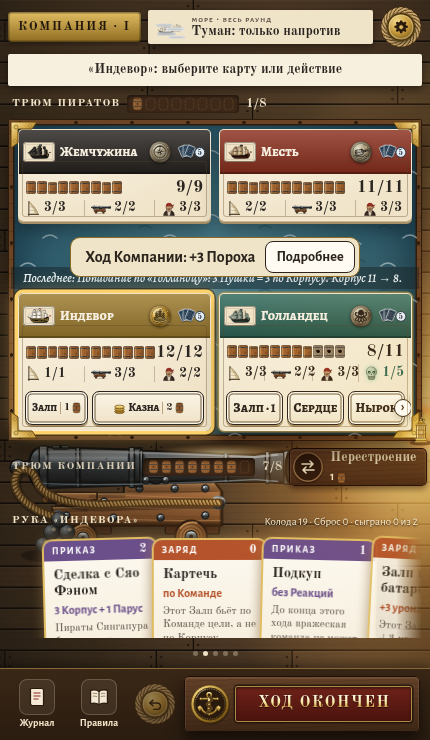
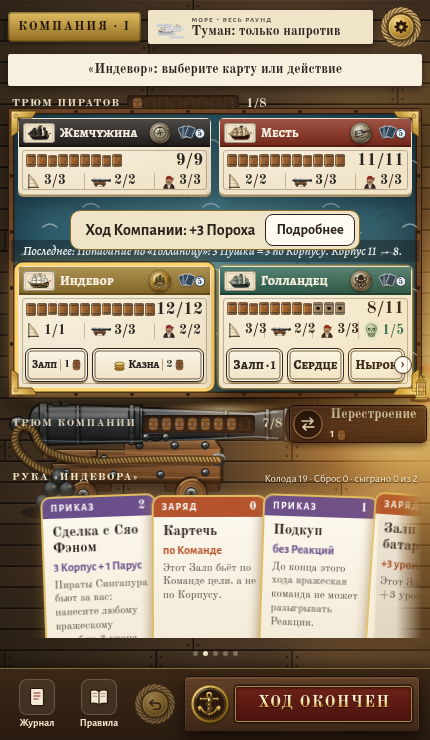
Restore compact phone planks and partition invisible touch targets

diff --git a/src/ui/game/phone.css b/src/ui/game/phone.css
@@ -9,7 +9,6 @@
   /* ——— the top row: the brass plate «ПИРАТЫ · II», the plaque of the sea with its picture, the gear; the paper line of
      the hint; the Hold of the top team over the sea ——— */
   .status {
-    flex-shrink: 0;
     grid-template-columns: auto minmax(0, 1fr);
     grid-template-areas:
       'turn tools'
@@ -188,10 +187,6 @@
     min-height: auto;
     grid-template-rows: auto minmax(64px, 1fr) auto;
   }
-  /* The whole enemy plank is a touch target, including a head without action buttons. */
-  .plank.aimable {
-    min-height: 80px;
-  }
   .board-bottom > .hand-row {
     flex: 0 1 auto;
     min-height: 96px;
@@ -219,15 +214,34 @@
     inset: 31px 3px 3px;
   }
   .plank-head {
-    /* A Legend owns a real 44 px target in the head, never the Hull below it. */
-    height: 44px;
-    min-height: 44px;
+    height: 28px;
+    min-height: 28px;
     padding: 0 4px;
     gap: 5px;
   }
+  /* Invisible extensions never reserve room. The Legend grows upwards, away from Hull. */
+  .plank { overflow: visible; }
   button.star::before {
-    top: calc(50% - 22px);
+    inset: auto -11px 0;
+    width: 44px;
     height: 44px;
+    transform: none;
+  }
+  /* Neighbouring rows split the available space; their hit areas cannot steal each other's taps. */
+  .track .info-hit::after {
+    inset: -2px;
+    width: auto;
+    height: auto;
+    transform: none;
+  }
+  .plank-statuses .info-hit::after {
+    inset: -2px -2px -21px;
+    width: auto;
+    height: auto;
+    transform: none;
+  }
+  .plank:has(.plank-buttons) .plank-statuses .info-hit::after {
+    bottom: -2px;
   }
   .plank-head .ship-art {
     flex: 0 0 32px;
@@ -558,11 +572,8 @@
   .plank-statuses {
     flex-wrap: nowrap;
     gap: 4px;
-    /* Keep the 44 px hit zone inside the row instead of clipping its top and bottom. */
-    min-height: 44px;
-    align-items: center;
-    padding: 0 7px;
-    overflow: hidden;
+    padding: 0 7px 5px;
+    overflow: visible;
   }
   .plank-statuses .status-chip {
     flex: none;

diff --git a/e2e/fx-sea.spec.ts b/e2e/fx-sea.spec.ts
@@ -291,13 +291,17 @@ test.describe('the badges explain themselves (phone 430×932)', () => {
     await expect(page.getByTestId('info-pop')).toHaveCount(0);
     expect(await showOn(page)).toBe(true);
     const fire = page.getByTestId('fire-И');
-    // the zone of the press is at least 44 × 44 px: the points 21 px around the middle of the badge give the badge
+    // The visible chip stays 21 px high. Its invisible extension grows into the free space below;
+    // the upper edge stops at the midpoint to the neighbouring track row.
     const zone = await fire.evaluate((el) => {
-      const r = el.getBoundingClientRect(), cx = r.left + r.width / 2, cy = r.top + r.height / 2;
-      const d = Math.max(21, r.width / 2 - 1), h = Math.max(21, r.height / 2 - 1);
-      return [[cx, cy - h], [cx, cy + h], [cx - d, cy], [cx + d, cy]].map(([x, y]) => document.elementFromPoint(x, y)?.closest('[data-info]') === el);
+      const r = el.getBoundingClientRect(), cx = r.left + r.width / 2;
+      const hit = (x: number, y: number) => document.elementFromPoint(x, y)?.closest('[data-info]') === el;
+      const above = el.closest('.plank')!.querySelector('.track:not(.t-hull) .info-hit')!;
+      const t = above.getBoundingClientRect();
+      return { height: r.height, hits: [hit(cx, r.top - 1), hit(cx, r.bottom + 20), hit(r.left - 1, r.top + 10), hit(r.right + 1, r.top + 10)],
+        track: document.elementFromPoint(t.left + t.width / 2, t.top + t.height / 2)?.closest('[data-info]') === above };
     });
-    expect(zone).toEqual([true, true, true, true]);
+    expect(zone).toEqual({ height: 21, hits: [true, true, true, true], track: true });
     await fire.tap();
     await expect(page.getByTestId('info-pop')).toBeVisible();
     await expect(page.getByTestId('info-pop')).toContainText('−1 Корпус за каждый Пожар');

diff --git a/e2e/phone.spec.ts b/e2e/phone.spec.ts
@@ -50,7 +50,8 @@ async function expectWholePlankTarget(page: Page, code: string) {
   await expect(target).toHaveClass(/aimable/);
   const box = (await target.boundingBox())!;
   expect(box.width).toBeGreaterThanOrEqual(150);
-  expect(box.height).toBeGreaterThanOrEqual(80);
+  expect(box.height).toBeGreaterThanOrEqual(44);
+  expect((await target.locator('.plank-head').boundingBox())!.height).toBe(28);
   const star = page.getByTestId(`star-${code}`);
   const sb = (await star.count()) > 0 ? await star.boundingBox() : null;
   const head = (await target.locator('.plank-head').boundingBox())!;
@@ -207,7 +208,7 @@ async function phone(page: Page, name: string) {
   await last.click();
   await expect(souls).not.toHaveText(before!, { timeout: 15_000 });
 
-  // The star is a centred 44×44 tap zone inside the head: its corners hit the star, never the Hull below it.
+  // The invisible 44×44 zone grows upwards from the star, leaving the Hull below untouched.
   const star = page.getByTestId('star-И');
   await expect(star).toBeVisible();
   const sb = (await star.boundingBox())!;
@@ -221,7 +222,7 @@ async function phone(page: Page, name: string) {
         [x - 21, y + 21],
         [x + 21, y + 21],
       ].map(([px, py]) => document.elementFromPoint(px, py)?.closest('[data-testid="star-И"]') !== null),
-    { x: cx, y: sb.y + sb.height / 2 },
+    { x: cx, y: sb.y + sb.height - 22 },
   );
   expect(hits).toEqual([true, true, true, true, true]);
   await star.click();

diff --git a/docs/progress/fix-ci.md b/docs/progress/fix-ci.md
@@ -106,3 +106,7 @@
 Git при успешном push предложил ссылку: https://github.com/re1ampag0/bortom-k-bortu/pull/new/fix-ci-phone-2 .
 Заголовок PR: `fix-ci: restore targeted UI checks and preserve reading windows`.
 В описание включить итог А и ограничения выше; Б1–Б4 не выдавать за выполненные.
+
+### Коррекция видимых размеров по проверке пользователя
+
+Убраны ошибочные min-height 80 у цели и 44 у статусов, шапка снова 28 px (включая min-height). Зона звезды 44×44 расширена вверх невидимым ::before, без пересечения с Корпусом. Зоны соседних строк разделены; статусы не растягивают планшет. Тесты проверяют компактную геометрию и касания; требование 80 px у целого планшета заменено на 44 px и точную шапку 28 px. Оба адресных теста (phone 430×932, «Пожар») прошли, 2 passed (13.4s); typecheck — exit 0. Кадр: `docs/screenshots/fix-ci/phone-touch-430x740.png`.
